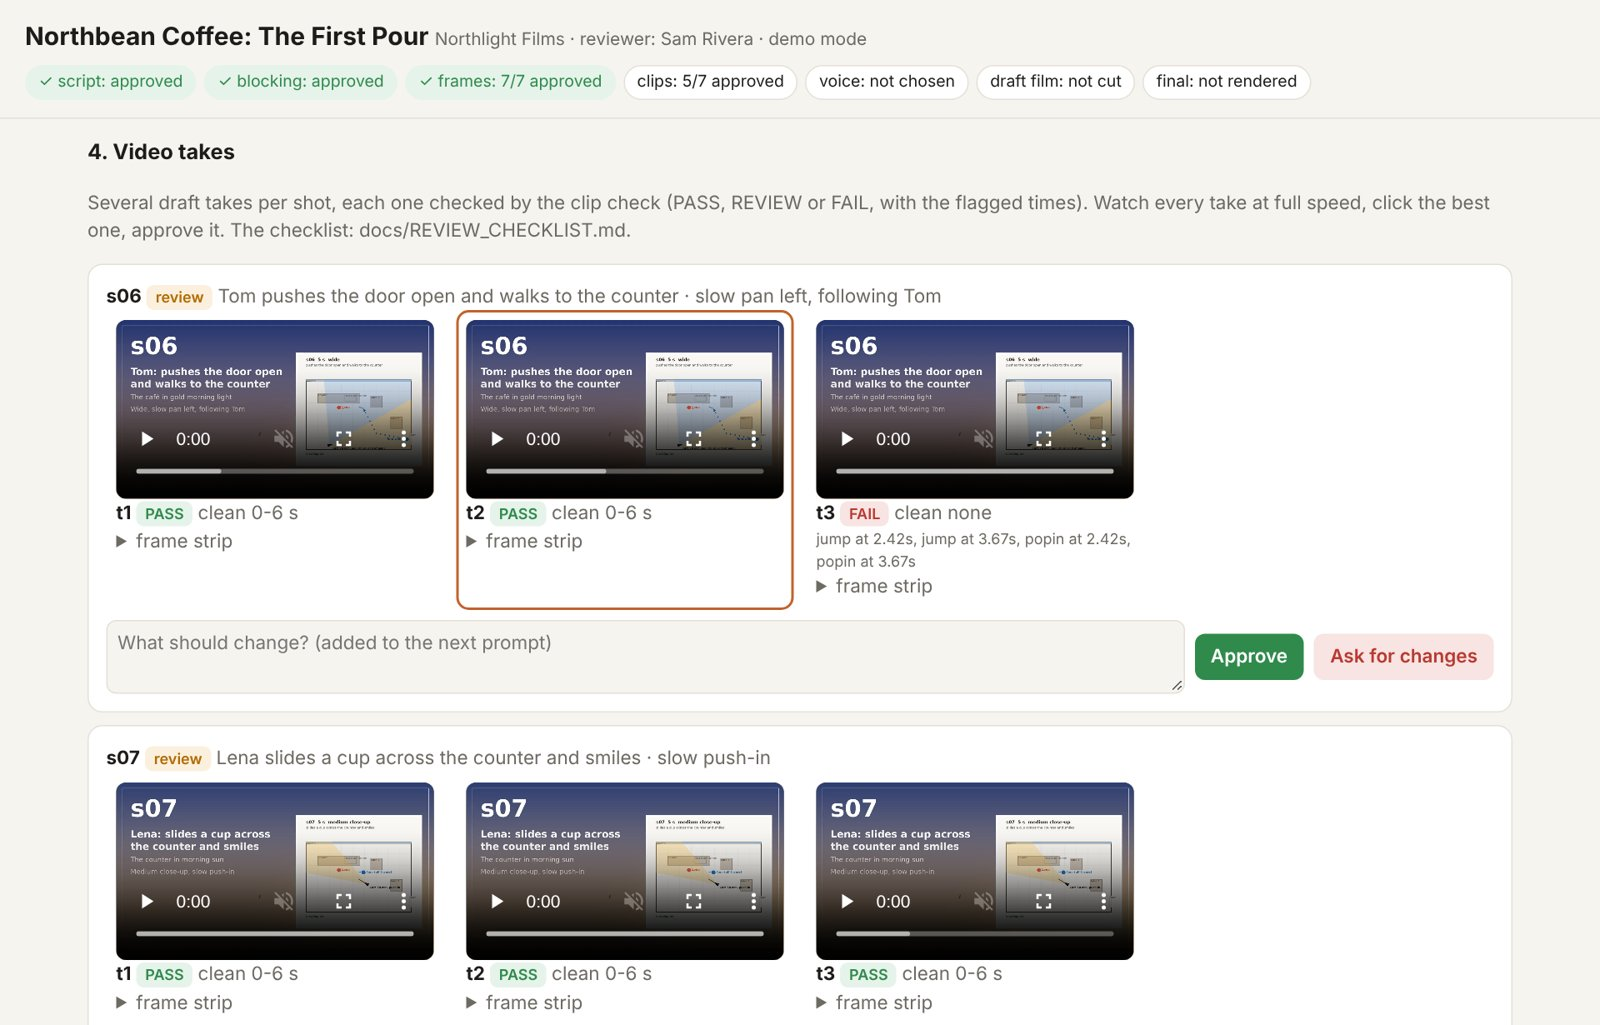
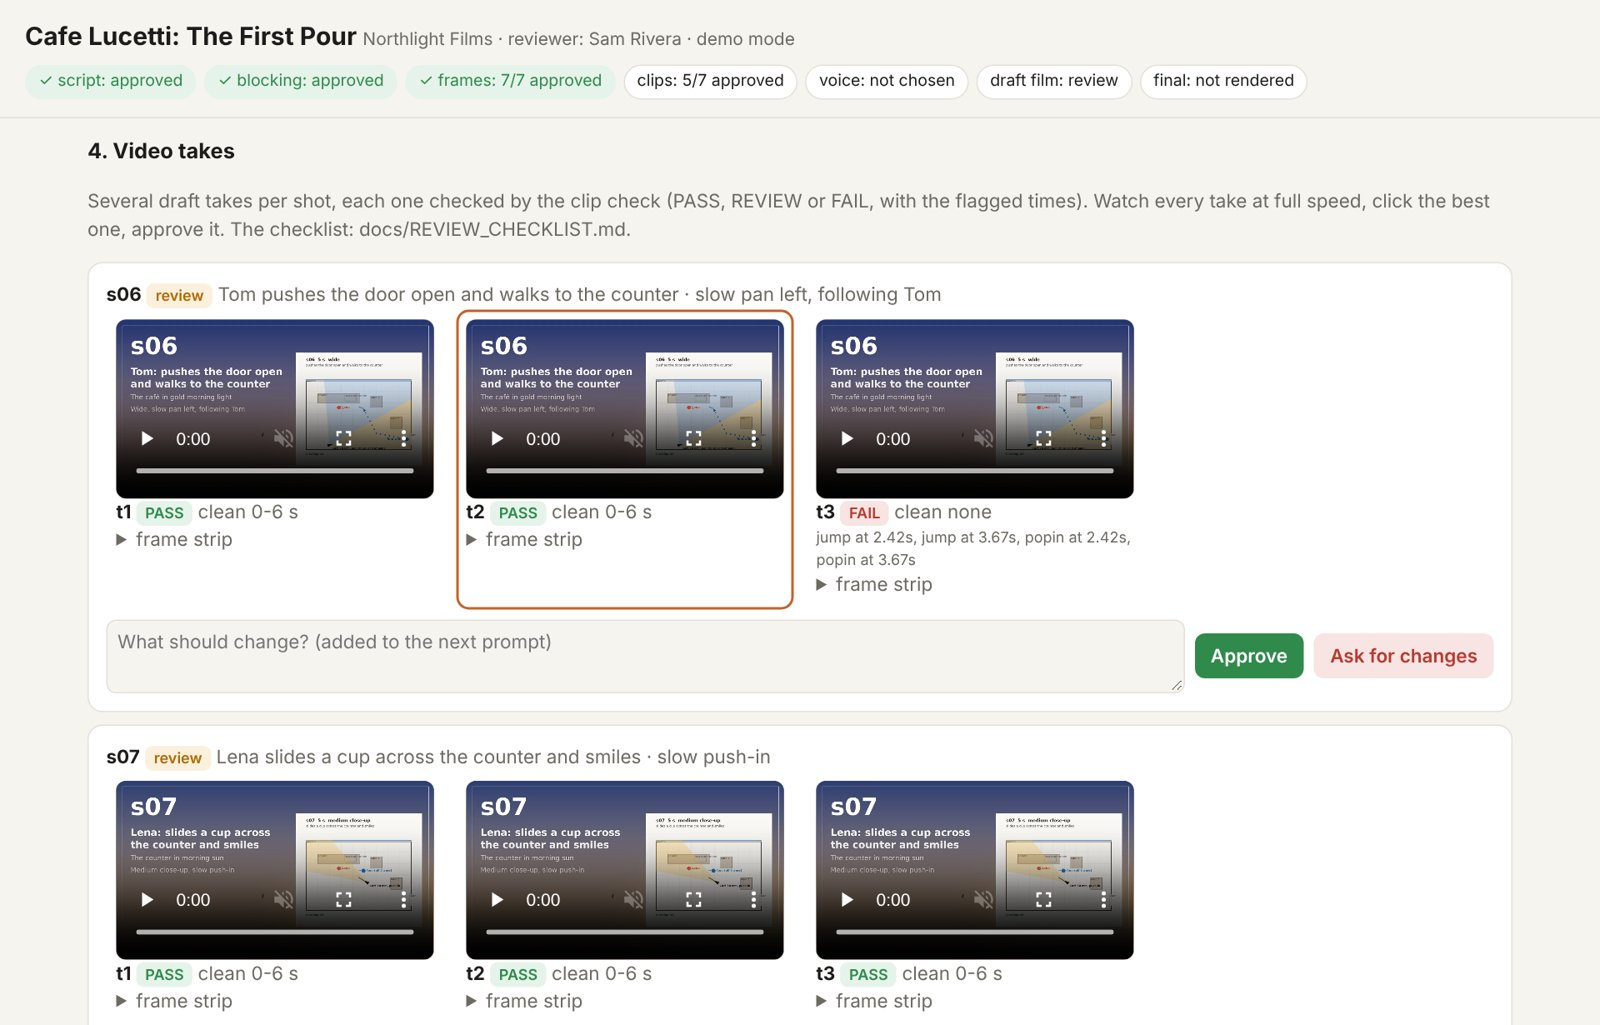
Example film for Cafe Lucetti
Claude-Session: https://claude.ai/code/session_018ZHtqVfXuWNAUt21Pmdswz

diff --git a/README.md b/README.md
@@ -122,7 +122,7 @@ Open http://localhost:8765, approve the script and the blocking, then in a secon
 python3 studio.py frames demo --demo
 ```
 
-The example is a 41-second brand film for a made-up café, *Northbean Coffee: The First Pour*. Here is its storyboard
+The example is a 41-second brand film for Cafe Lucetti, *The First Pour*. Here is its storyboard
 in demo mode (each card shows the shot and its blocking plan):
 
 ![Demo storyboard](docs/img/storyboard_sheet.jpg)
@@ -270,7 +270,7 @@ python3 studio.py music my-ad
 ```
 
 The narration is recorded one file per shot, so each line lands on its own picture and a bad line is redone alone.
-Brand names that a voice reads wrongly go in `"pronounce": {"Northbean": "North bean"}`. The score comes in two takes;
+Brand names that a voice reads wrongly go in `"pronounce": {"Lucetti": "Loo chetti"}`. The score comes in two takes;
 pick one.
 
 ![Voice and score on the review page](docs/img/review_voice.jpg)
@@ -351,14 +351,14 @@ how many unique clips that needs, the expected retakes, and the total against yo
 
 ```json
 {
-  "title": "Northbean Coffee: The First Pour",
+  "title": "Cafe Lucetti: The First Pour",
   "format": "brand_film",
   "brief": "For people who start early. Feeling: ... Fact: ... 45 s, 2.39:1, calm narrator.",
   "promise": {"text": "One person, one café, one morning. Every shot moves. No text in shot.", "signed": "Client name, date"},
   "looks": {"Lena": "a woman in her early thirties, fair skin with light freckles, dark blond hair in a low bun, rust linen apron"},
   "style": "Cinematic film still, 35 mm anamorphic lens, soft motivated light, gentle film grain, photoreal, 16:9.",
   "aspect": "2.39:1",
-  "pronounce": {"Northbean": "North bean"},
+  "pronounce": {"Lucetti": "Loo chetti"},
   "music": {"style": "warm solo piano and soft strings, slow, hopeful, 72 bpm", "title": "First Pour"},
   "concepts": [{"title": "...", "logline": "...", "hook": "...", "image": "...", "fit": "..."}],
   "chosen": "The First Pour",
@@ -373,8 +373,8 @@ how many unique clips that needs, the expected retakes, and the total against yo
                   "people": [{"name": "Lena", "at": [2.6, 2.4], "facing": [2.6, 4.4]}]}},
     {"id": "s08", "seconds": 6, "role": "brand", "subject": "the end card", "subject_motion": "holds",
      "scene": "black", "framing": "full frame", "camera": "locked-off", "intent": "brand",
-     "vo": "Northbean Coffee. Open at half past five.",
-     "card": {"title": "Northbean Coffee", "line": "Open at half past five."}}
+     "vo": "Cafe Lucetti. The first pour is yours.",
+     "card": {"title": "Cafe Lucetti", "line": "The first pour is yours."}}
   ]
 }
 ```
